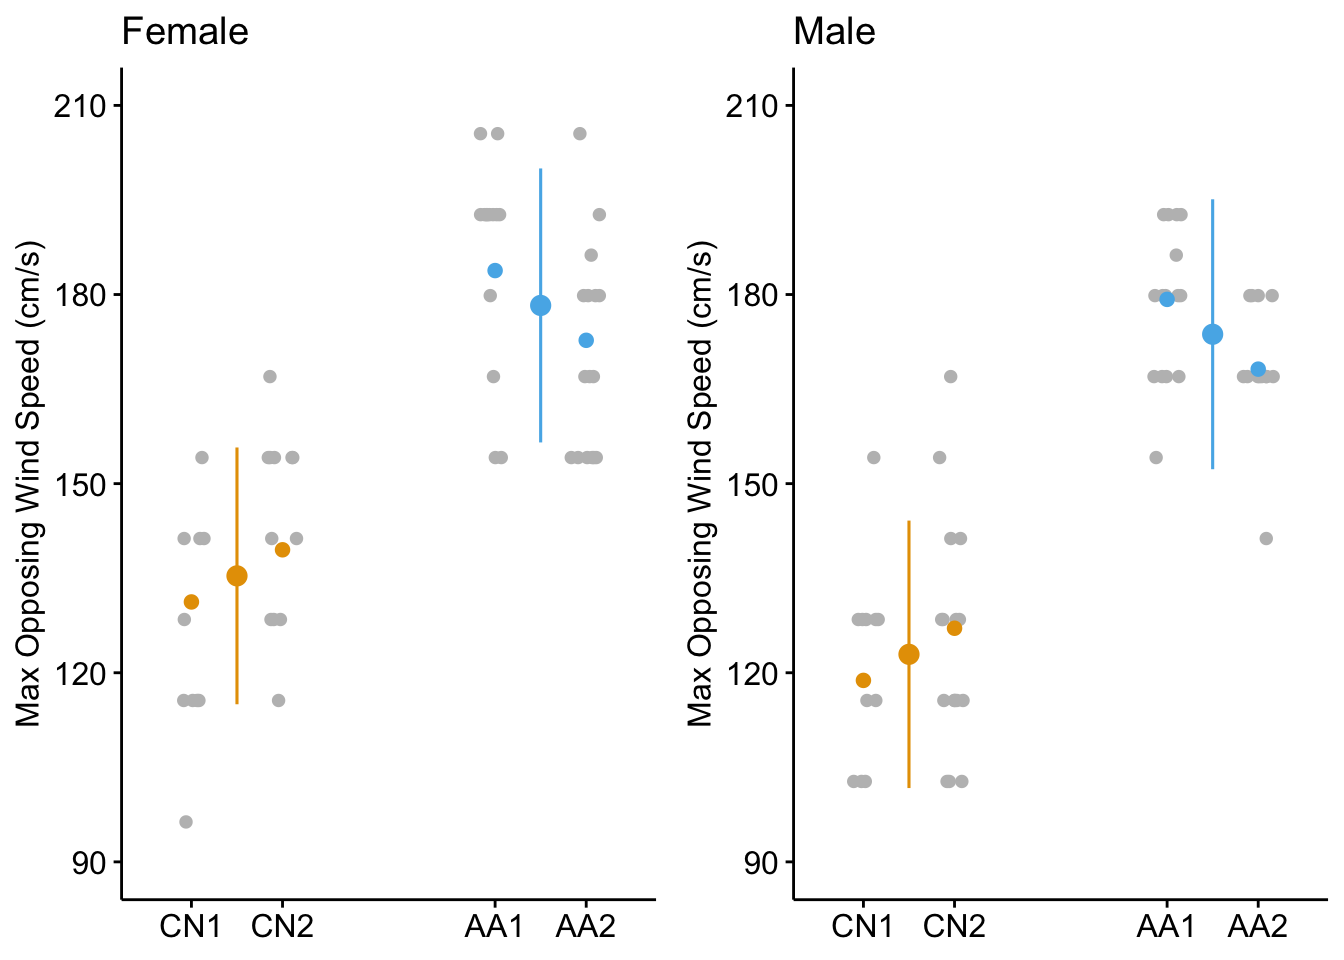
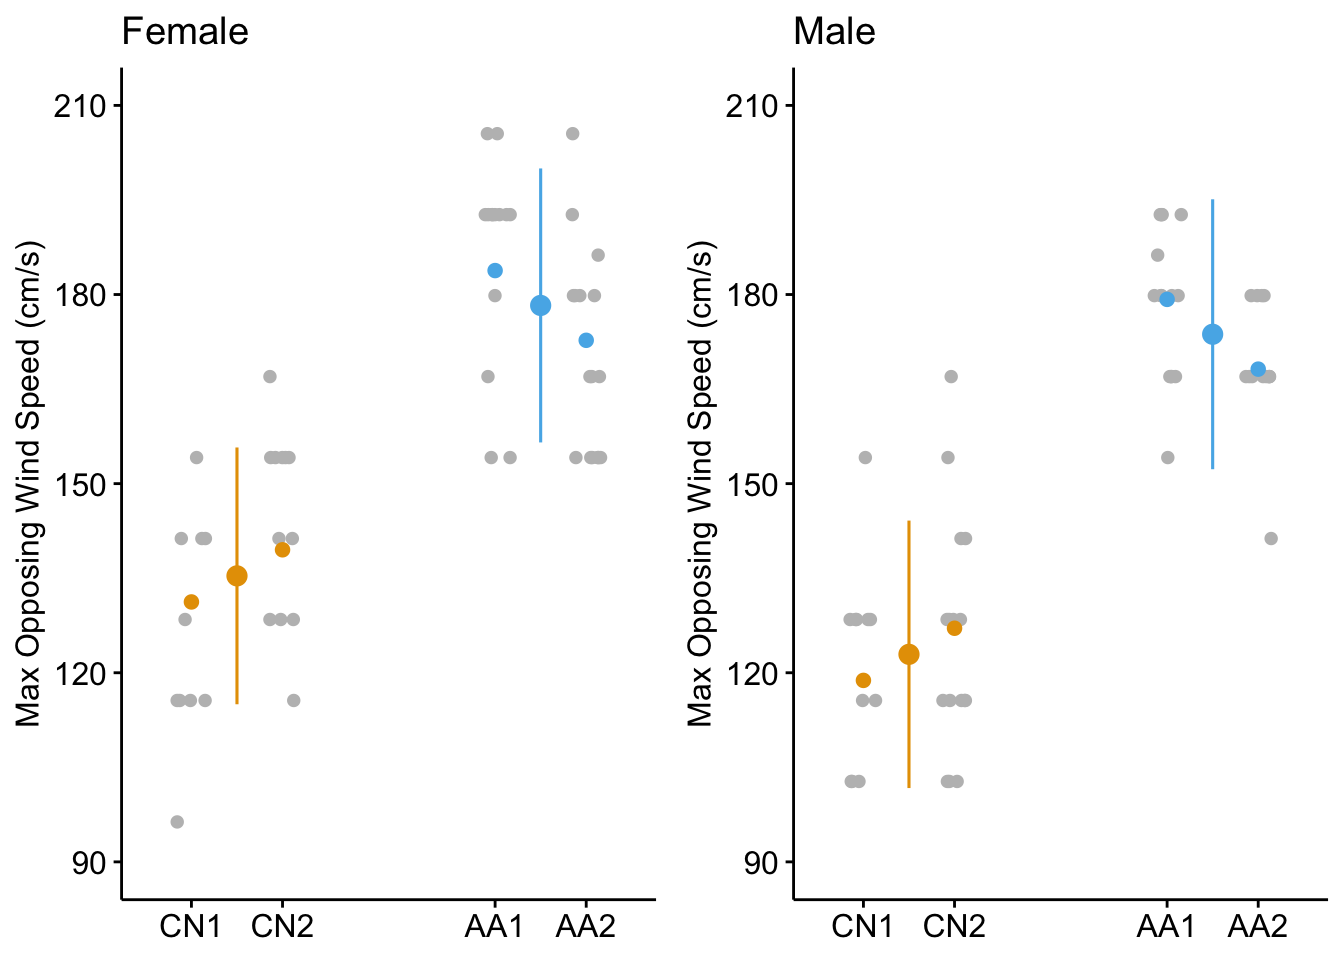
qmd file start

diff --git a/code/wind tunnel flies analysis.html b/code/wind tunnel flies analysis.html
@@ -135,8 +135,8 @@ pre > code.sourceCode > span > a:first-child::before { text-decoration: underlin
 </section>
 <section id="selected-lines-have-30-40-higher-upwind-flight-ability-than-control-or-wild-type-lines" class="level1">
 <h1>Selected lines have 30-40% higher upwind flight ability than control or wild type lines</h1>
-<section id="experiment-1" class="level2">
-<h2 class="anchored" data-anchor-id="experiment-1">Experiment 1</h2>
+<section id="experiment-1-simons-walker-data" class="level2">
+<h2 class="anchored" data-anchor-id="experiment-1-simons-walker-data">Experiment 1 (Simons-Walker data)</h2>
 <section id="linear-mixed-model" class="level3">
 <h3 class="anchored" data-anchor-id="linear-mixed-model">Linear mixed model</h3>
 <div class="cell">
@@ -259,6 +259,8 @@ pre > code.sourceCode > span > a:first-child::before { text-decoration: underlin
 </section>
 <section id="supplementary-models-in-supplement" class="level3">
 <h3 class="anchored" data-anchor-id="supplementary-models-in-supplement">Supplementary models (in supplement)</h3>
+<section id="classical-ancova" class="level4">
+<h4 class="anchored" data-anchor-id="classical-ancova">Classical ANCOVA</h4>
 <div class="cell">
 <div class="sourceCode cell-code" id="cb2"><pre class="sourceCode r code-with-copy"><code class="sourceCode r"><span id="cb2-1"><a href="#cb2-1" aria-hidden="true" tabindex="-1"></a>lm_ancova <span class="ot">&lt;-</span> <span class="fu">lm</span>(wind_speed <span class="sc">~</span> treatment <span class="sc">*</span> sex <span class="sc">+</span> room_temp, <span class="at">data =</span> exp1)</span></code><button title="Copy to Clipboard" class="code-copy-button"><i class="bi"></i></button></pre></div>
 </div>
@@ -279,6 +281,9 @@ treatmentAA:sexM   7.766310  6.1944225  1.253758 2.127958e-01</code></pre>
 </div>
 </div>
 </div>
+</section>
+<section id="random-intercept-with-covariate" class="level4">
+<h4 class="anchored" data-anchor-id="random-intercept-with-covariate">Random intercept with covariate</h4>
 <div class="cell">
 <div class="sourceCode cell-code" id="cb4"><pre class="sourceCode r code-with-copy"><code class="sourceCode r"><span id="cb4-1"><a href="#cb4-1" aria-hidden="true" tabindex="-1"></a>exp1_lmm_2 <span class="ot">&lt;-</span> <span class="fu">lmer</span>(wind_speed <span class="sc">~</span> treatment <span class="sc">*</span> sex <span class="sc">+</span> room_temp <span class="sc">+</span> (<span class="dv">1</span> <span class="sc">|</span> line), <span class="at">data =</span> exp1)</span></code><button title="Copy to Clipboard" class="code-copy-button"><i class="bi"></i></button></pre></div>
 </div>
@@ -377,8 +382,9 @@ treatmentAA:sexM   7.766310  6.1944225  1.253758 2.127958e-01</code></pre>
 
 </div>
 </div>
-<section id="classical-nested-anova-supplement" class="level4">
-<h4 class="anchored" data-anchor-id="classical-nested-anova-supplement">Classical nested ANOVA (supplement)</h4>
+</section>
+<section id="classical-nested-anova" class="level4">
+<h4 class="anchored" data-anchor-id="classical-nested-anova">Classical nested ANOVA</h4>
 <div class="cell">
 <div class="sourceCode cell-code" id="cb5"><pre class="sourceCode r code-with-copy"><code class="sourceCode r"><span id="cb5-1"><a href="#cb5-1" aria-hidden="true" tabindex="-1"></a>exp1_aov <span class="ot">&lt;-</span> <span class="fu">aov</span>(wind_speed <span class="sc">~</span> treatment <span class="sc">*</span> sex <span class="sc">+</span> <span class="fu">Error</span>(line <span class="sc">/</span> sex),</span>
 <span id="cb5-2"><a href="#cb5-2" aria-hidden="true" tabindex="-1"></a>          <span class="at">data =</span> exp1)</span></code><button title="Copy to Clipboard" class="code-copy-button"><i class="bi"></i></button></pre></div>
@@ -405,6 +411,66 @@ Residuals 99  23708   239.5               </code></pre>
 </div>
 </div>
 </section>
+</section>
+</section>
+<section id="experiment-2-wheeler-data" class="level2">
+<h2 class="anchored" data-anchor-id="experiment-2-wheeler-data">Experiment 2 (Wheeler) data</h2>
+<section id="clean-and-import" class="level3">
+<h3 class="anchored" data-anchor-id="clean-and-import">Clean and Import</h3>
+<p>To compare to Exp1 (Simons-Walker) results, I am using wind tunnel speed and not the computed speed of the fly. But I will analyze that in a supplement. Jess has 3 measures per fly; since these are at same tunnel speed, I just need to obtain the summary data as the primary data set.</p>
+</section>
+<section id="estimate-treatment-effects" class="level3">
+<h3 class="anchored" data-anchor-id="estimate-treatment-effects">Estimate Treatment Effects</h3>
+<div class="cell">
+<div class="cell-output cell-output-stdout">
+<pre><code>                    Estimate Std. Error          df   t value     Pr(&gt;|t|)
+(Intercept)         90.29973   6.673737    3.152007 13.530610 6.747727e-04
+treatmentWild       11.42369   9.472730    3.198690  1.205956 3.094040e-01
+treatmentAA         61.85944   9.435469    3.148647  6.556054 6.205628e-03
+sexM               -11.59091   2.155431 2570.307890 -5.377538 8.231327e-08
+treatmentWild:sexM  17.81702   3.237003 2569.362508  5.504172 4.076251e-08
+treatmentAA:sexM    10.61994   3.039859 2569.423302  3.493562 4.846769e-04</code></pre>
+</div>
+<div class="cell-output cell-output-stdout">
+<pre><code> treatment sex emmean   SE   df lower.CL upper.CL
+ CN        F     90.3 6.67 3.14     69.6    111.0
+ Wild      F    101.7 6.72 3.24     81.2    122.3
+ AA        F    152.2 6.67 3.14    131.5    172.9
+ CN        M     78.7 6.67 3.15     58.0     99.4
+ Wild      M    107.9 6.72 3.23     87.4    128.5
+ AA        M    151.2 6.68 3.15    130.5    171.9
+
+Degrees-of-freedom method: kenward-roger 
+Confidence level used: 0.95 </code></pre>
+</div>
+<div class="cell-output cell-output-stdout">
+<pre><code>     contrast  estimate       SE       df  lower.CL     upper.CL   t.ratio
+       &lt;fctr&gt;     &lt;num&gt;    &lt;num&gt;    &lt;num&gt;     &lt;num&gt;        &lt;num&gt;     &lt;num&gt;
+1: F: AA - CN  61.85944 9.435633 3.141336  32.58108  91.13780221  6.555939
+2: F: AA - WT  50.43575 9.470134 3.187887  21.27793  79.59356322  5.325769
+3: F: CN - WT -11.42369 9.472880 3.191263 -40.57381  17.72642498 -1.205937
+4: M: AA - CN  72.47938 9.442206 3.150362  43.22535 101.73339881  7.676106
+5: M: AA - WT  43.23866 9.471343 3.189398  14.08436  72.39296473  4.565209
+6: M: CN - WT -29.24071 9.468717 3.185970 -58.40335  -0.07807473 -3.088139
+       p.value effect_std
+         &lt;num&gt;      &lt;num&gt;
+1: 0.006251600   4.052834
+2: 0.011063085   3.304390
+3: 0.309582493  -0.748444
+4: 0.003859746   4.748618
+5: 0.017242876   2.832860
+6: 0.049662847  -1.915759</code></pre>
+</div>
+</div>
+<div class="cell">
+<div class="cell-output-display">
+<div>
+<figure class="figure">
+<p><img src="wind-tunnel-flies-analysis_files/figure-html/exp2-conditional-mean-plot-1.png" class="img-fluid figure-img" width="672"></p>
+</figure>
+</div>
+</div>
+</div>
 </section>
 </section>
 </section>
